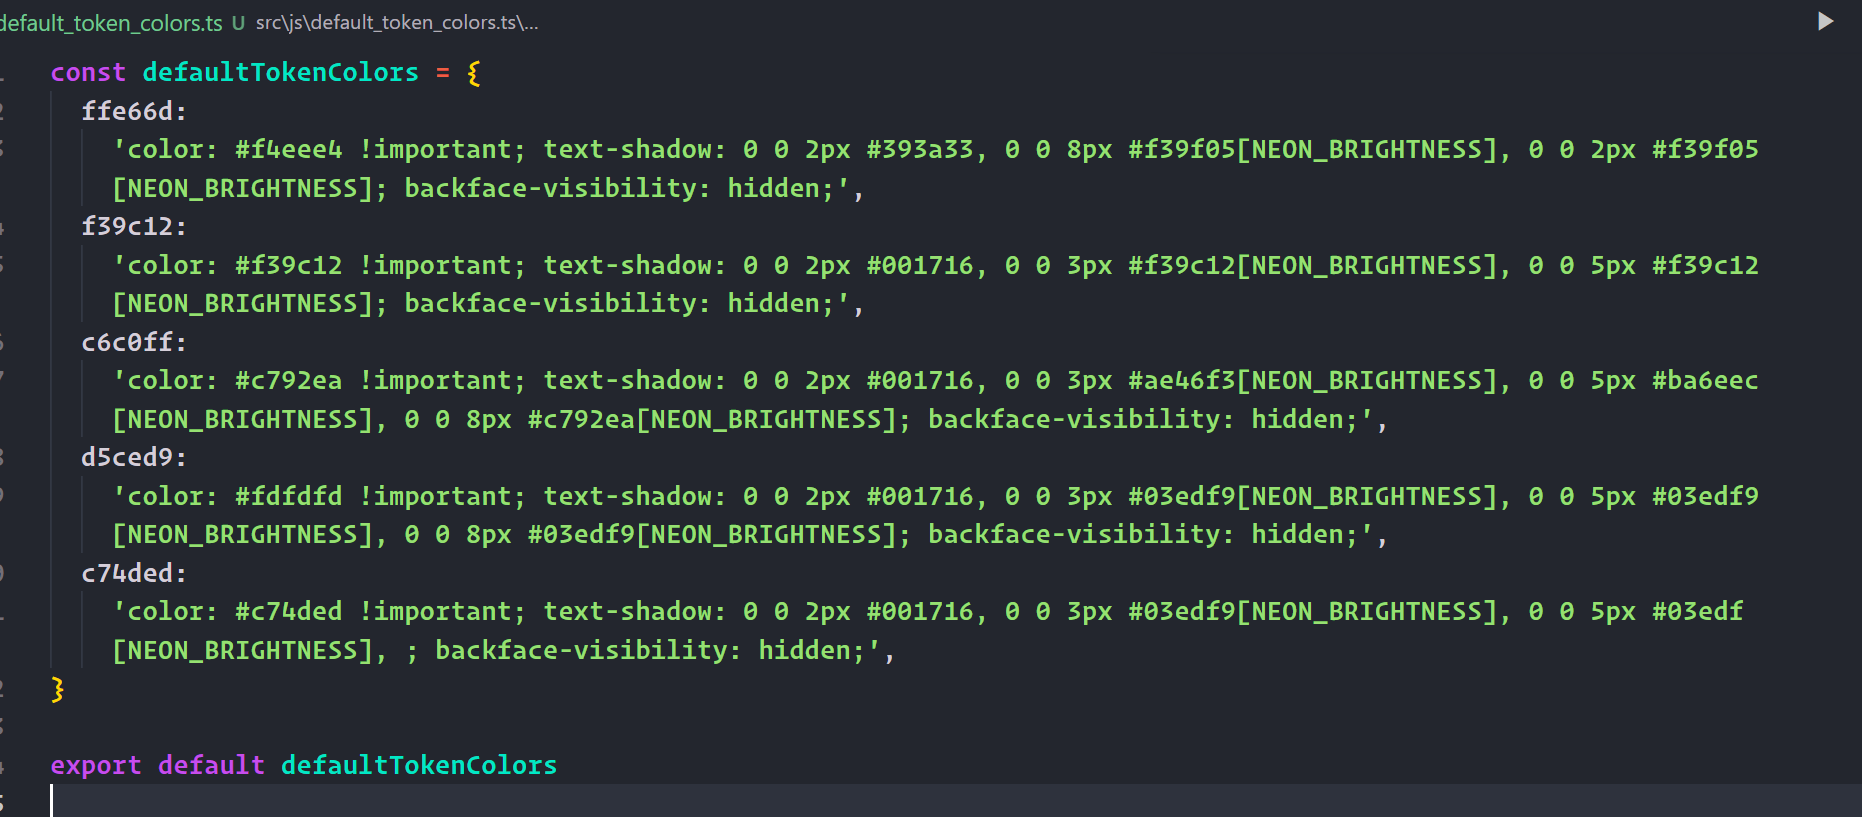
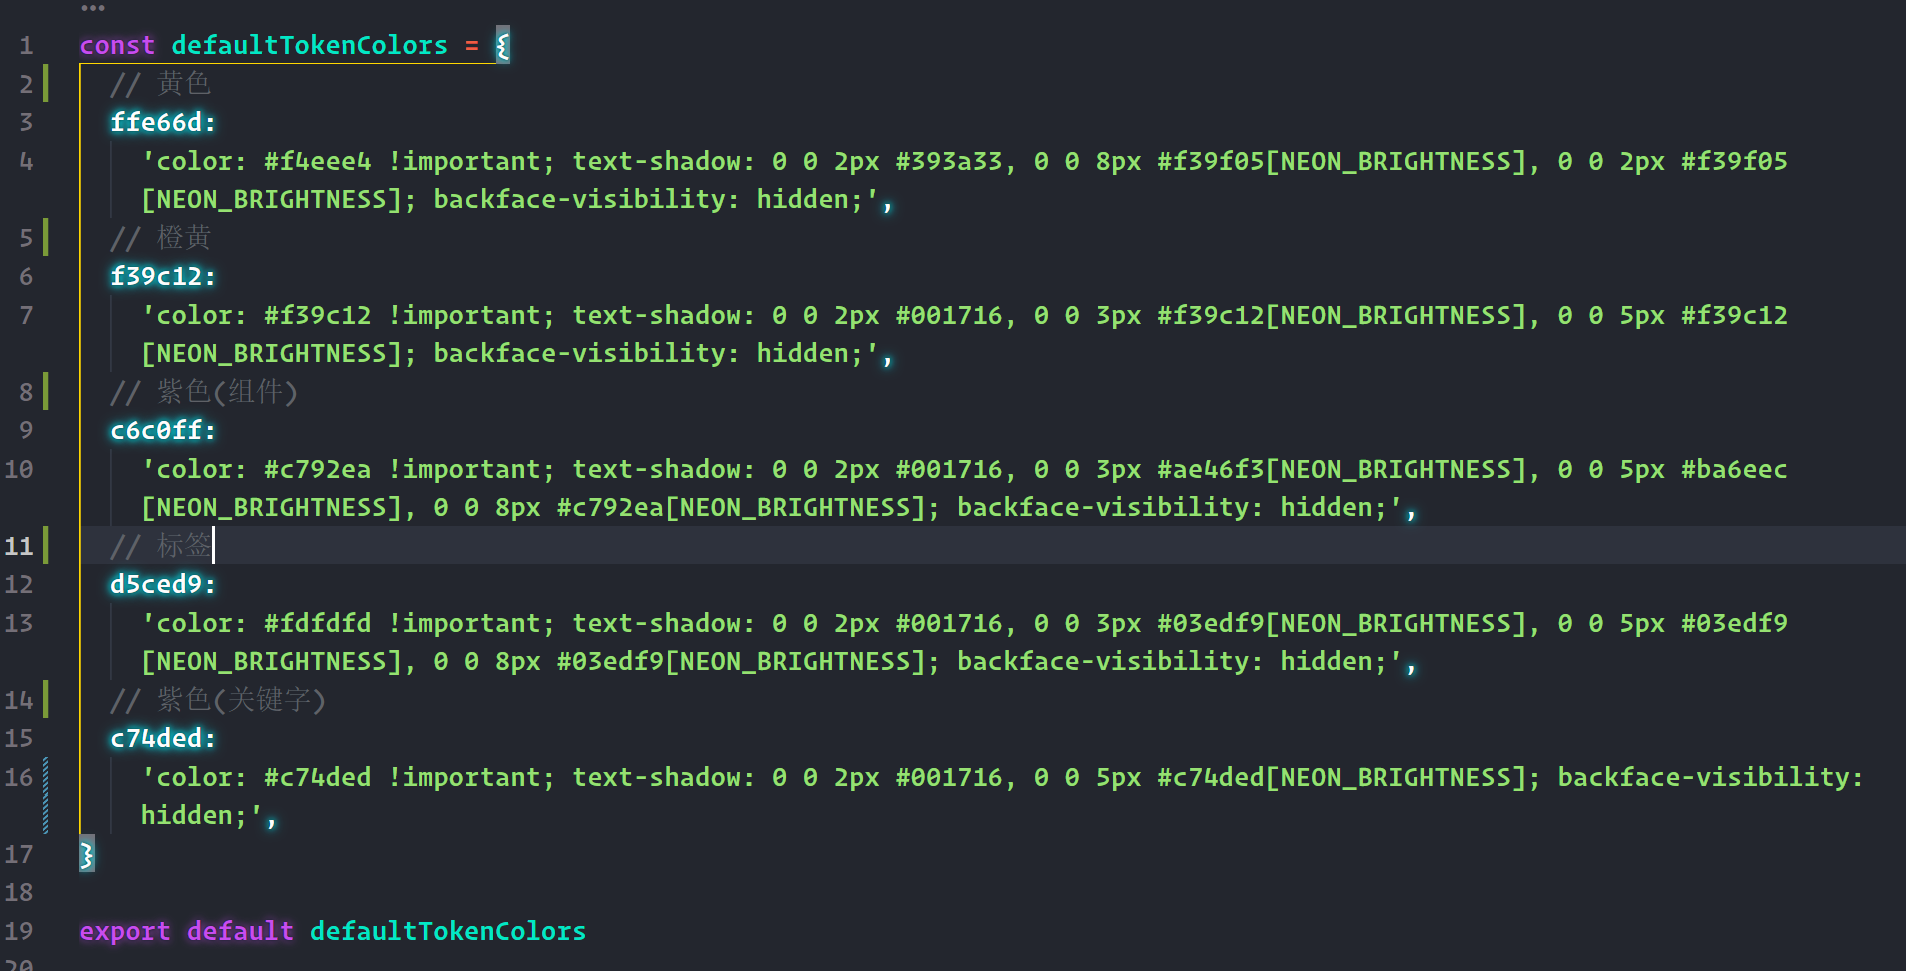
fix: 解决部分bug

Changed region(s): [[0.0, 0.0, 0.9656, 1.0], [0.0, 0.459, 0.0311, 0.4896]]

diff --git a/src/extension.ts b/src/extension.ts
@@ -3,7 +3,11 @@ const fs = require('fs')
 import { convertHexadecimal, basePath } from './utils'
 import defaultTokenColors from './data/default_token_colors'
 // 将js写入neondreams
-function writeJsInTemplate(brightness: string, tokenColors: any) {
+function writeJsInTemplate(
+  brightness: string,
+  tokenColors: any,
+  disableGlow: boolean
+) {
   return new Promise((resovle, reject) => {
     const templateFile = `${basePath}neondreams.js`
     // 读取插件文件
@@ -20,6 +24,7 @@ function writeJsInTemplate(brightness: string, tokenColors: any) {
     const finalTheme = jsTemplate
       .replace(/\[TOKEN_COLORS\]/g, JSON.stringify(tokenColors))
       .replace(/\[NEON_BRIGHTNESS\]/g, brightness)
+      .replace(/\[DISABLE_GLOW\]/g, disableGlow)
       .replace(/\[CHROME_STYLES\]/g, chromeStyles)
 
     // neondreamsjs 写入最终样式js
@@ -68,14 +73,15 @@ function getHtmlInfo() {
 }
 
 export function activate(context: vscode.ExtensionContext) {
-  let { brightness, tokenColors } =
+  let { brightness, tokenColors, disableGlow } =
     vscode.workspace.getConfiguration('Andromeda84')
 
   // 配置项
   brightness = convertHexadecimal(brightness)
 
   // 颜色
-  tokenColors = tokenColors.length
+
+  tokenColors = Object.keys(tokenColors).length
     ? { ...defaultTokenColors, ...tokenColors }
     : defaultTokenColors
 
@@ -84,7 +90,7 @@ export function activate(context: vscode.ExtensionContext) {
   let enableNeon = vscode.commands.registerCommand(
     'Andromeda84.enableNeon',
     async () => {
-      await writeJsInTemplate(brightness, tokenColors)
+      await writeJsInTemplate(brightness, tokenColors, disableGlow)
 
       const { isEnabled, htmlFile, html } = getHtmlInfo()
 

diff --git a/src/data/default_token_colors.ts b/src/data/default_token_colors.ts
@@ -1,14 +1,19 @@
 const defaultTokenColors = {
+  // 黄色
   ffe66d:
     'color: #f4eee4 !important; text-shadow: 0 0 2px #393a33, 0 0 8px #f39f05[NEON_BRIGHTNESS], 0 0 2px #f39f05[NEON_BRIGHTNESS]; backface-visibility: hidden;',
+  // 橙黄
   f39c12:
     'color: #f39c12 !important; text-shadow: 0 0 2px #001716, 0 0 3px #f39c12[NEON_BRIGHTNESS], 0 0 5px #f39c12[NEON_BRIGHTNESS]; backface-visibility: hidden;',
+  // 紫色(组件)
   c6c0ff:
     'color: #c792ea !important; text-shadow: 0 0 2px #001716, 0 0 3px #ae46f3[NEON_BRIGHTNESS], 0 0 5px #ba6eec[NEON_BRIGHTNESS], 0 0 8px #c792ea[NEON_BRIGHTNESS]; backface-visibility: hidden;',
+  // 标签
   d5ced9:
     'color: #fdfdfd !important; text-shadow: 0 0 2px #001716, 0 0 3px #03edf9[NEON_BRIGHTNESS], 0 0 5px #03edf9[NEON_BRIGHTNESS], 0 0 8px #03edf9[NEON_BRIGHTNESS]; backface-visibility: hidden;',
+  // 紫色(关键字)
   c74ded:
-    'color: #c74ded !important; text-shadow: 0 0 2px #001716, 0 0 3px #03edf9[NEON_BRIGHTNESS], 0 0 5px #03edf[NEON_BRIGHTNESS], ; backface-visibility: hidden;',
+    'color: #c74ded !important; text-shadow: 0 0 2px #001716, 0 0 5px #c74ded[NEON_BRIGHTNESS]; backface-visibility: hidden;',
 }
 
 export default defaultTokenColors

diff --git a/js/theme_template.js b/js/theme_template.js
@@ -38,23 +38,12 @@
     }, styles)
 
   /**
-   * @summary Checks if a theme is applied, and that the theme belongs to the Synthwave 84 family
-   * @returns {boolean}
-   */
-  const usingSynthwave = () => {
-    const appliedTheme = document.querySelector('[class*="theme-json"]')
-    const synthWaveTheme = document.querySelector(
-      '[class*="liubailin-andromeda84-vscode-themes"]'
-    )
-    return appliedTheme && synthWaveTheme
-  }
-
-  /**
    * @summary Attempts to bootstrap the theme
    * @param {boolean} disableGlow
    * @param {MutationObserver} obs
    */
-  const initNeonDreams = obs => {
+  const initNeonDreams = (disableGlow, obs) => {
+    if (disableGlow) return
     const tokensEl = document.querySelector('.vscode-tokens-styles')
 
     const initialThemeStyles = tokensEl.innerText
@@ -89,7 +78,7 @@
 
   function obCallback() {
     // 节流配合观察者实现霓虹灯
-    initNeonDreams(observer)
+    initNeonDreams([DISABLE_GLOW], observer)
   }
 
   observer.observe(targetNode, obConfig)

diff --git a/README.md b/README.md
@@ -15,4 +15,9 @@
 ![](./images/style.png)
 ![](./images/setting.png)
 
+## 如果不喜欢请在卸载前关闭霓虹灯
+
 ## 特别鸣谢 Andromeda 和 synthwave’84 主题的开源仓库
+
+![](./images/Andromda.png)
+![](./images/SynthWave84.png)
